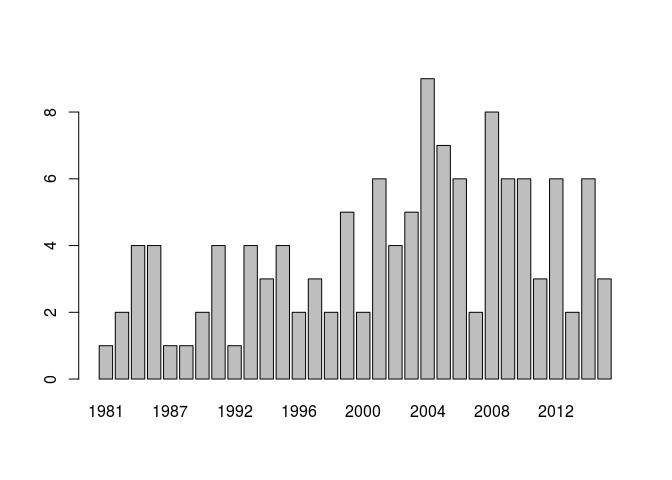
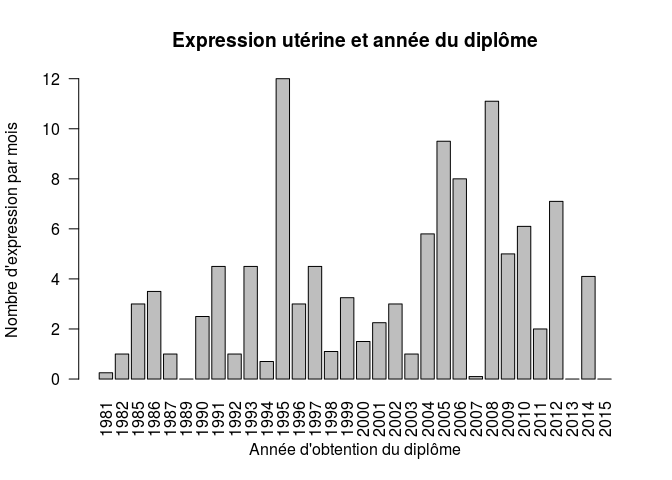
maj

diff --git a/Analyse/analyse.html b/Analyse/analyse.html
@@ -129,10 +129,75 @@ img {
 </ul>
 <div id="relation-annee-du-diplome---expression" class="section level2">
 <h2><span class="header-section-number">1.1</span> Relation année du diplôme - expression</h2>
-<pre class="r"><code>a &lt;- tapply(d$freq, d$andip, length)
-barplot(a)</code></pre>
[1 lines of base64/hex data omitted]
+<div id="frequence-des-expressions-mensuelles-en-foction-de-annee-du-diplome" class="section level3">
+<h3><span class="header-section-number">1.1.1</span> Fréquence des expressions mensuelles en foction de ’année du diplôme</h3>
+<pre class="r"><code># tableau croisé freq x année = 32 x 10. Chaque ligne correspond à un années. Les colonnes corrzspondent aux féquences mensuelles.
+t &lt;- table(d$andip, d$freq)
+# exemple:
+head(t)</code></pre>
+<pre><code>##       
+##        0 0.1 0.25 0.3 0.5 1 2 3 5 10
+##   1981 0   0    1   0   0 0 0 0 0  0
+##   1982 0   0    0   0   0 1 0 0 0  0
+##   1985 2   0    0   0   0 1 1 0 0  0
+##   1986 0   0    2   0   0 1 1 0 0  0
+##   1987 0   0    0   0   0 1 0 0 0  0
+##   1989 1   0    0   0   0 0 0 0 0  0</code></pre>
+<pre class="r"><code># on calcule la somme de chaque ligne multipliée par la fréquence. La fréquence est connée par le nom des colonnes transformées en numérique:
+t2 &lt;- apply(t, 1, function(x){sum(x * as.numeric(colnames(t)))})
+# on obtient un tableau à 2 colonnes: année x nb d'expression mensuelle
+barplot(t2, las = 2, ylab = &quot;Nombre d'expression par mois&quot;, xlab = &quot;Année d'obtention du diplôme&quot;, main = &quot;Expression utérine et année du diplôme&quot;)</code></pre>
[1 lines of base64/hex data omitted]
+<pre class="r"><code># alternative plus rapide avec aggregate:
+# ag &lt;- aggregate(d$freq, by=list(Annee = d$andip), FUN=sum)
+# barplot(ag$x, names.arg = ag$Annee, las = 2)
+
+
+# Cependant les effectifs annuels sont trop faibles pour tirer une conclusion: en moyenne 4 SF par année.
+s &lt;- apply(t, 1,  sum)
+summary(s)</code></pre>
+<pre><code>##    Min. 1st Qu.  Median    Mean 3rd Qu.    Max. 
+##   1.000   2.000   4.000   3.844   6.000   9.000</code></pre>
+<pre class="r"><code>barplot(s, las = 2, ylab = &quot;Nombre de réponses&quot;, xlab = &quot;Année d'obtetion du diplôme&quot;, main = &quot; Effectif de l'échantillon et année du diplôme&quot;)</code></pre>
[1 lines of base64/hex data omitted]
+<p>Si on divise l’échantillon en 2 selon que le diplome ait été obtenu avant ou après 2007</p>
+<pre class="r"><code>d$dip &lt;- ifelse(d$andip &lt; 2008, &quot;&lt;2007&quot;,&quot;&gt;2007&quot;)
+table(d$dip)</code></pre>
+<pre><code>## 
+## &lt;2007 &gt;2007 
+##    84    40</code></pre>
+<pre class="r"><code># table
+t &lt;- table(d$dip, d$freq)
+t</code></pre>
+<pre><code>##        
+##          0 0.1 0.25 0.3 0.5  1  2  3  5 10
+##   &lt;2007 21   4    7   1  11 22 11  5  0  1
+##   &gt;2007 14   4    0   0   4 11  3  2  2  0</code></pre>
+<pre class="r"><code>fisher.test(t)</code></pre>
+<pre><code>## 
+##  Fisher's Exact Test for Count Data
+## 
+## data:  t
+## p-value = 0.2456
+## alternative hypothesis: two.sided</code></pre>
+<p>Pas de différence de comportement selon que le diplôme ait été obtenu avant ou après 2007.</p>
 </div>
+</div>
+</div>
+<div id="selon-le-type-de-maternite" class="section level1">
+<h1><span class="header-section-number">2</span> Selon le type de maternité</h1>
+<pre class="r"><code>table(d$type)</code></pre>
+<pre><code>## 
+##  1  2  3  4 
+## 42 31 34 17</code></pre>
+<pre class="r"><code>t &lt;- table(d$type, d$freq)
+t</code></pre>
+<pre><code>##    
+##      0 0.1 0.25 0.3 0.5  1  2  3  5 10
+##   1  8   1    4   0   4 13  6  4  2  0
+##   2  4   3    1   0   3  9  7  3  0  1
+##   3 17   2    2   1   2  9  1  0  0  0
+##   4  6   2    0   0   6  2  0  0  0  0</code></pre>
 </div>
 
 

diff --git a/Analyse/analyse.md b/Analyse/analyse.md
@@ -71,10 +71,125 @@ Année d'obtention du diplôme
 Relation année du diplôme - expression
 --------------------------------------
 
+### Fréquence des expressions mensuelles en foction de 'année du diplôme
+
 ```r
-a <- tapply(d$freq, d$andip, length)
-barplot(a)
+# tableau croisé freq x année = 32 x 10. Chaque ligne correspond à un années. Les colonnes corrzspondent aux féquences mensuelles.
+t <- table(d$andip, d$freq)
+# exemple:
+head(t)
+```
+
+```
+##       
+##        0 0.1 0.25 0.3 0.5 1 2 3 5 10
+##   1981 0   0    1   0   0 0 0 0 0  0
+##   1982 0   0    0   0   0 1 0 0 0  0
+##   1985 2   0    0   0   0 1 1 0 0  0
+##   1986 0   0    2   0   0 1 1 0 0  0
+##   1987 0   0    0   0   0 1 0 0 0  0
+##   1989 1   0    0   0   0 0 0 0 0  0
+```
+
+```r
+# on calcule la somme de chaque ligne multipliée par la fréquence. La fréquence est connée par le nom des colonnes transformées en numérique:
+t2 <- apply(t, 1, function(x){sum(x * as.numeric(colnames(t)))})
+# on obtient un tableau à 2 colonnes: année x nb d'expression mensuelle
+barplot(t2, las = 2, ylab = "Nombre d'expression par mois", xlab = "Année d'obtention du diplôme", main = "Expression utérine et année du diplôme")
 ```
 
 ![](analyse_files/figure-html/unnamed-chunk-5-1.png)
+
+```r
+# alternative plus rapide avec aggregate:
+# ag <- aggregate(d$freq, by=list(Annee = d$andip), FUN=sum)
+# barplot(ag$x, names.arg = ag$Annee, las = 2)
+
+
+# Cependant les effectifs annuels sont trop faibles pour tirer une conclusion: en moyenne 4 SF par année.
+s <- apply(t, 1,  sum)
+summary(s)
+```
+
+```
+##    Min. 1st Qu.  Median    Mean 3rd Qu.    Max. 
+##   1.000   2.000   4.000   3.844   6.000   9.000
+```
+
+```r
+barplot(s, las = 2, ylab = "Nombre de réponses", xlab = "Année d'obtetion du diplôme", main = " Effectif de l'échantillon et année du diplôme")
+```
+
+![](analyse_files/figure-html/unnamed-chunk-5-2.png)
+
+Si on divise l'échantillon en 2 selon que le diplome ait été obtenu avant ou après 2007
+
+
+```r
+d$dip <- ifelse(d$andip < 2008, "<2007",">2007")
+table(d$dip)
+```
+
+```
+## 
+## <2007 >2007 
+##    84    40
+```
+
+```r
+# table
+t <- table(d$dip, d$freq)
+t
+```
+
+```
+##        
+##          0 0.1 0.25 0.3 0.5  1  2  3  5 10
+##   <2007 21   4    7   1  11 22 11  5  0  1
+##   >2007 14   4    0   0   4 11  3  2  2  0
+```
+
+```r
+fisher.test(t)
+```
+
+```
+## 
+## 	Fisher's Exact Test for Count Data
+## 
+## data:  t
+## p-value = 0.2456
+## alternative hypothesis: two.sided
+```
+Pas de différence de comportement selon que le diplôme ait été obtenu avant ou après 2007.
+
+Selon le type de maternité
+==========================
+
+
+```r
+table(d$type)
+```
+
+```
+## 
+##  1  2  3  4 
+## 42 31 34 17
+```
+
+```r
+t <- table(d$type, d$freq)
+t
+```
+
+```
+##    
+##      0 0.1 0.25 0.3 0.5  1  2  3  5 10
+##   1  8   1    4   0   4 13  6  4  2  0
+##   2  4   3    1   0   3  9  7  3  0  1
+##   3 17   2    2   1   2  9  1  0  0  0
+##   4  6   2    0   0   6  2  0  0  0  0
+```
+
+
 
